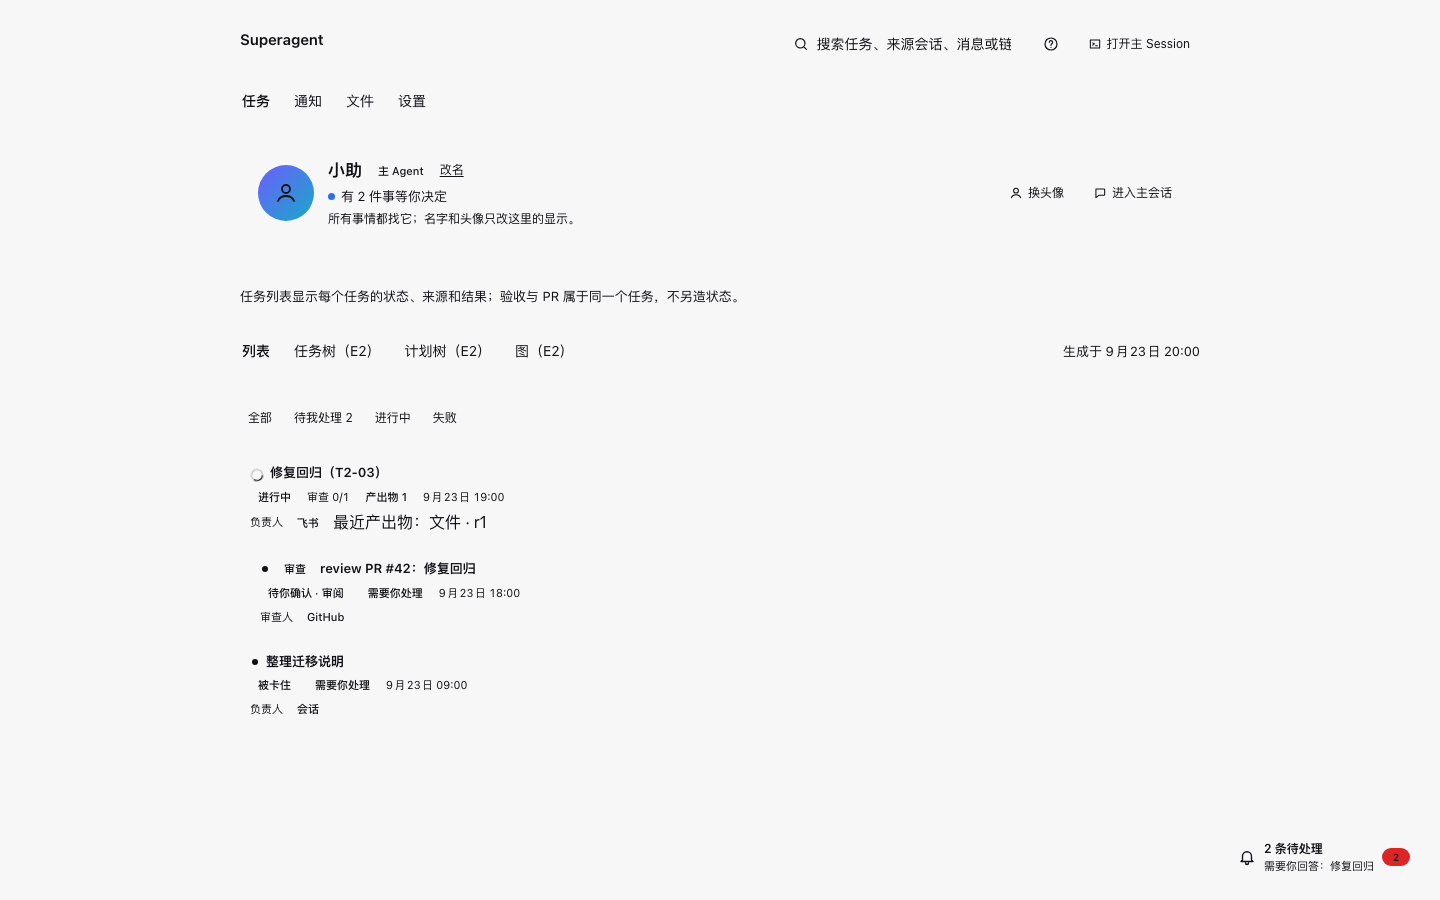
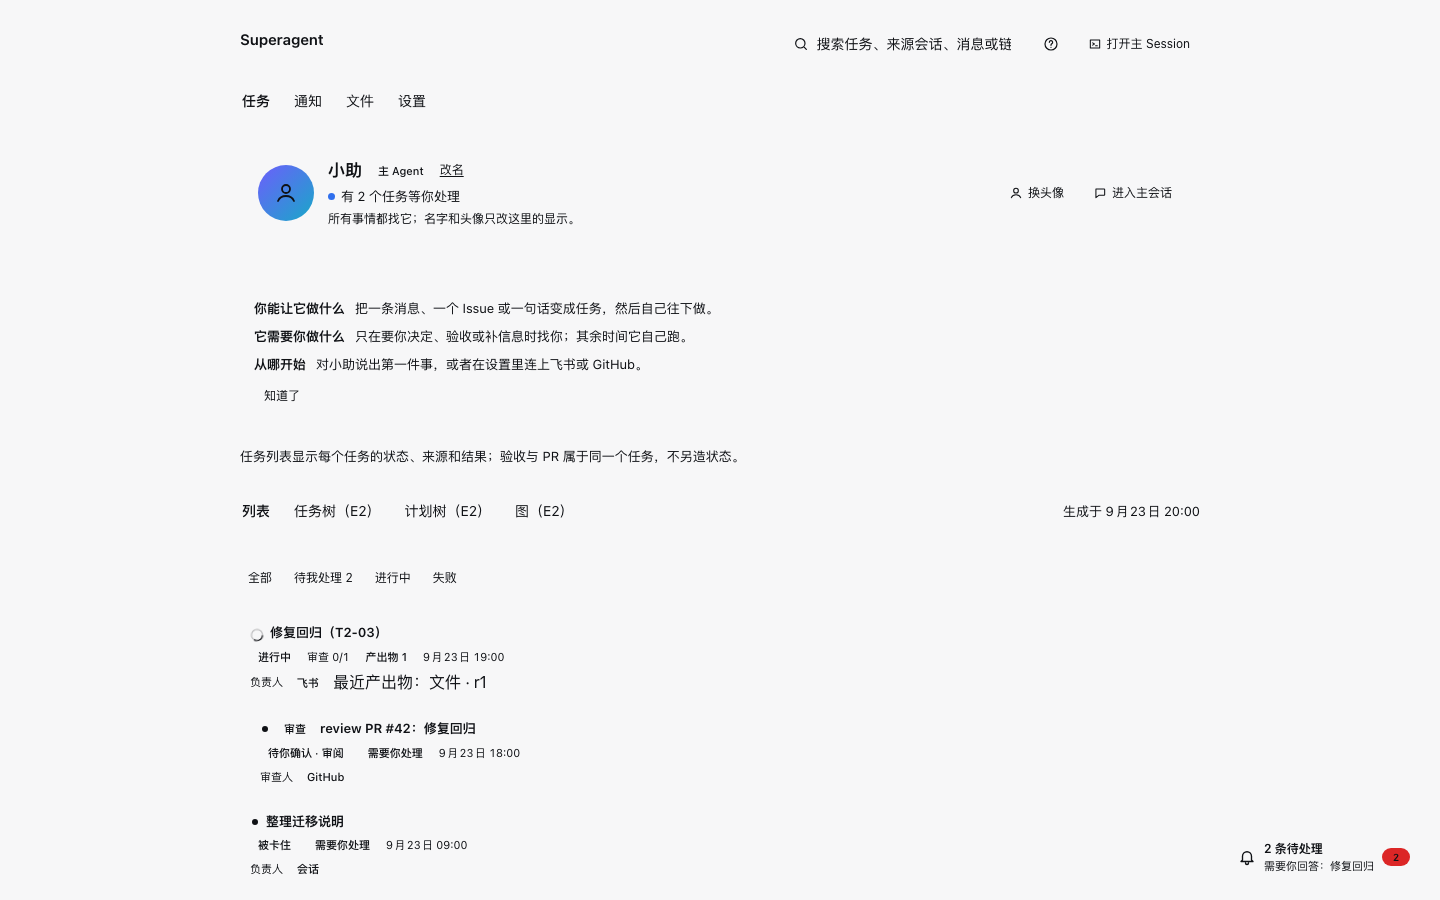
copy(dsh): name the main-Agent status after tasks
Say how many tasks need the person rather than the broader 'things', and refresh the After default capture with the same fixture as Before.

diff --git a/packages/dsh/src/client/locales.ts b/packages/dsh/src/client/locales.ts
@@ -466,7 +466,7 @@ const TEXT = {
   masterSubtitle: ['所有事情都找它；名字和头像只改这里的显示。', 'The one place to start; the name and avatar change only this display.'],
   masterStatusIdle: ['在线 · 待命', 'Online · ready'],
   masterStatusWorking: ['正在处理 {count} 项', 'Working on {count}'],
-  masterStatusWaiting: ['有 {count} 件事等你决定', '{count} thing(s) need you'],
+  masterStatusWaiting: ['有 {count} 个任务等你处理', '{count} task(s) need you'],
   masterStatusPaused: ['已暂停 · 新的处理恢复后才开始', 'Paused · new work waits for processing to resume'],
   masterStatusConnecting: ['正在连接主 Agent…', 'Connecting to the main Agent…'],
   masterOpen: ['进入主会话', 'Open main Session'],
